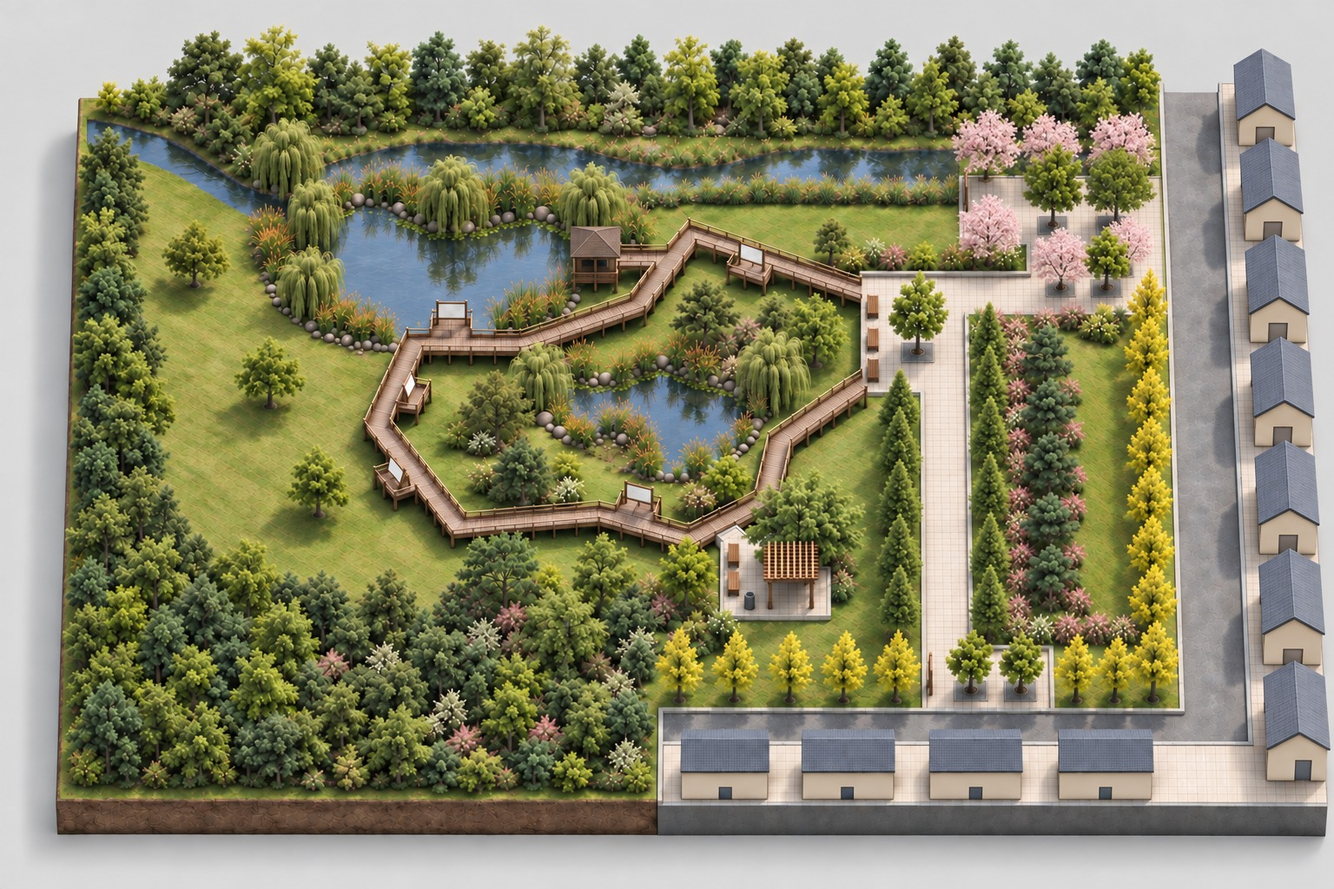
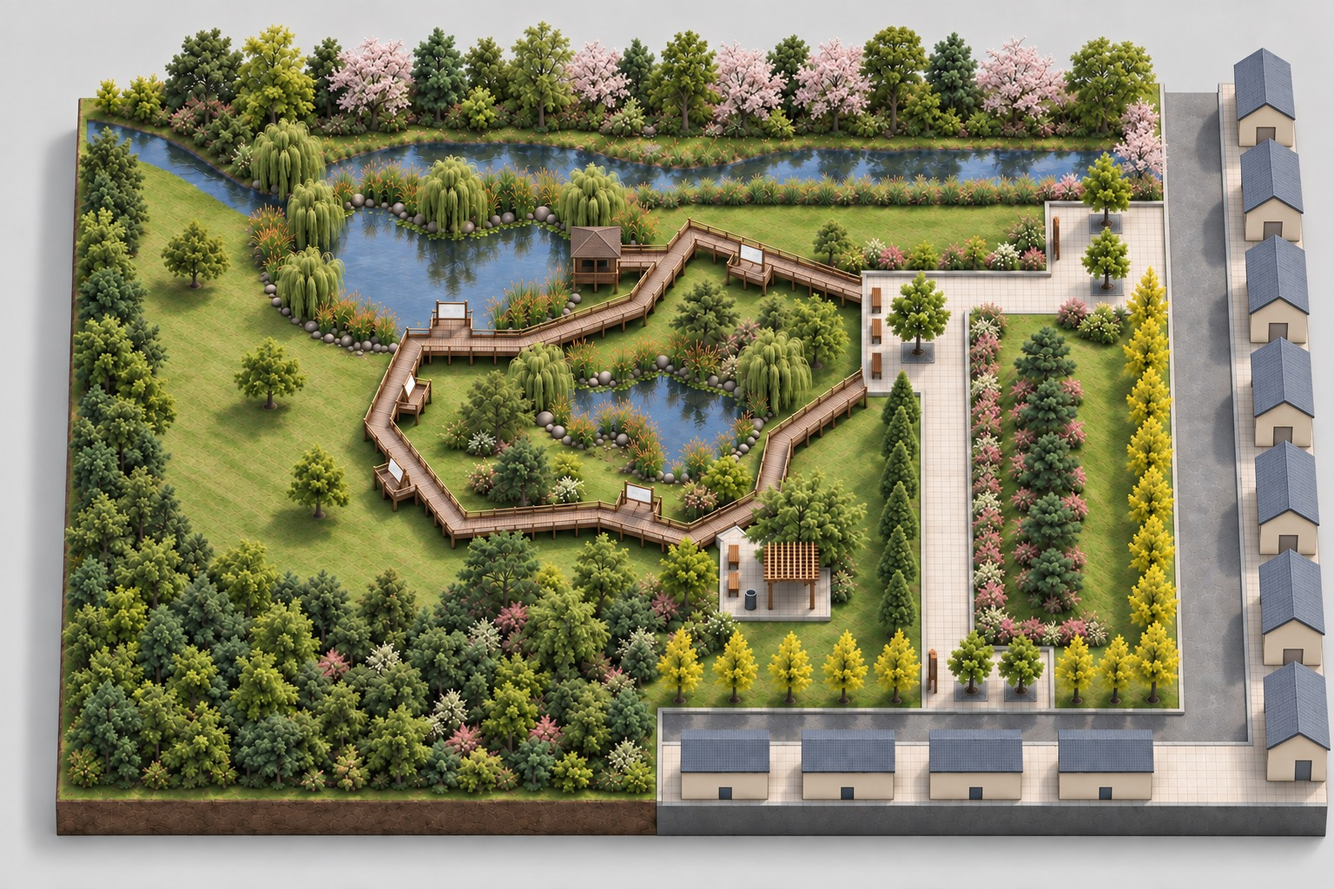
401: 입체평면도를 26회차로 되돌리고, 조감도는 메타세쿼이아 왼쪽 줄만 (20회차)
입체평면도 — 27회차는 동선 서쪽에 메타세쿼이아 줄이 하나 더 서고 선명도가
1356 → 1015 로 떨어졌다. 새로 그리지 않고 26회차 파일로 되돌렸다.
content.md 도 26회차 상태로 맞추고, 회차 기록에 되돌린 경위를 남겼다.
'남은 차이'의 "서쪽 줄 하나 더"는 빼고 "남측 광장 동쪽 메타세쿼이아가
한 그루뿐"을 되살렸다.

조감도 — 사용자 지시대로 동선 왼쪽(서쪽) 메타세쿼이아 줄만 남기고 오른쪽
줄은 지웠다. 오른쪽에는 철쭉 띠만 남고 키 큰 나무가 한 그루도 없다.
북동 진입광장은 입체평면도(26회차)를 참고 그림으로 한 장 더 넣어 그 모양과
배치를 따르게 했다 — "모양과 배치만 보고 시점·원근·질감은 지금 그림 그대로,
참고 그림은 평행투영이라 시점이 다르다"고 못박았다.

19회차에서 북동 광장 수목보호대가 셋이 되어, "북동 광장은 정확히 둘,
셋이 아니다. 셋째가 생기면 빼고 그 자리에 포장을 깔아라"로 다시 적어
20회차에 다섯 개(남측 2 · 북동 2 · 모임광장 1)로 맞췄다.

선명도 18회차 2889 → 20회차 3002(기준 2500).

diff --git a/_ls_drawing_refs/401_조감도/content.md b/_ls_drawing_refs/401_조감도/content.md
@@ -1,5 +1,5 @@
 '성운' 탭의 **답안지 II · 기본설계도**와 **답안지 III · 배식설계도**, 문제지 조건으로 만든 **입체 조감도**입니다.
-**GPT**(gpt-image-2.5-sunburst, 18회차)로 그렸습니다. 남동쪽 상공에서 북서쪽을 내려다본 시점이라 **도면의 북쪽이 그림의 위**입니다 —
+**GPT**(gpt-image-2.5-sunburst, 20회차)로 그렸습니다. 남동쪽 상공에서 북서쪽을 내려다본 시점이라 **도면의 북쪽이 그림의 위**입니다 —
 실개천이 위, 기존수림이 왼쪽, 6m 도로와 주택가가 오른쪽·아래입니다.
 
 ## 만든 방법 — 1회차 그림에서 **한 번에**
@@ -27,12 +27,13 @@
 7. 그런데 "**미색 판면이 비스듬히 보이고**"라고 적은 탓에 모델이 판면을 보이려고 **방향을 되돌려** 카메라를 마주 보게 했습니다(사용자 지적). 14회차에서 **방향이 최우선**임을 못박고 "이 시점에서는 판의 **좁은 옆면**이 보이는 것이 맞다, 판면이 안 보여도 괜찮다"고 바꿔 적었습니다. 대신 안내판임을 알리는 것으로 **다리 둘 · 판 아래 빈 틈 · 선 판의 그림자** 셋을 요구했습니다
 8. 식재가 틀렸습니다(사용자 지적) — 포장 가장자리를 따라 **키 큰 원뿔형 침엽수 줄**이 서 있었는데, 그 자리는 **철쭉 경계식재**여야 합니다. 성운 배식도의 의도는 "철쭉을 경계식재로, 둔덕에는 소나무, 상부에는 벚나무, 외곽에는 은행나무"이고 수량표에도 철쭉이 540주로 가장 많습니다. 침엽수 줄을 모두 지우고 **무릎 높이의 낮은 꽃관목 띠**로 바꿨습니다(15회차)
 9. 그 지시가 너무 넓어 **살아 있어야 할 메타세쿼이아 열식까지 지웠습니다**. 배식도의 `7 − 메타세쿼이어` 인출선을 확대해 끝까지 따라가 보니, 그 줄은 **남측 진입광장의 수목보호대 두 개 옆에서 시작해 남북 동선 포장의 동쪽 가장자리를 따라 북으로 오르는 일곱 그루**였고, 철쭉 띠는 그 **동쪽에 따로** 있었습니다. 좌표나 "오른쪽 변" 대신 **그림에 이미 있는 물건(수목보호대 두 개)** 을 기준점으로 삼고 "세어서 하나, 둘, … 일곱"까지 적으니 16~17회차에 네 번 실패하던 것이 한 번에 됐습니다. 함께 북동 광장에 **벚나무 6 · 느티나무 3**을 심고 **수목보호대 다섯 개는 하나도 없애지 마라**를 못박았습니다(18회차)
+10. 메타세쿼이아가 동선 **양옆에 한 줄씩** 서서, 사용자가 **왼쪽(서쪽) 줄만 남기고 오른쪽은 철쭉 띠만** 두라고 했습니다. 북동 진입광장은 **입체평면도(26회차)를 참고 그림으로 한 장 더 넣어** 그 모양과 배치를 따르게 했습니다 — "모양과 배치만 보고 시점·원근·질감은 지금 그림 그대로"라고 못박았습니다(19회차). 19회차는 북동 광장 수목보호대가 셋이 되어, **"북동 광장은 정확히 둘, 셋이 아니다. 셋째가 생기면 빼고 그 자리에 포장을 깔아라"** 로 다시 적어 20회차에 다섯 개로 맞췄습니다
 
 > **덧그리기는 곧 화질입니다.** 고칠 것이 생기면 마지막 그림 위에 얹지 말고, **덧그림이 적은 앞 회차로 돌아가
 > 고칠 것을 모두 한 프롬프트에 모아** 다시 그리는 편이 낫습니다. 같은 방식으로 'My' 탭 조감도와 '입체평면도'도 고쳤습니다.
 > 마스크 부분 수정이나 그림을 손으로 자르고 돌리는 일은 하지 않습니다.
 
-## 도면과 대조 (18회차)
+## 도면과 대조 (20회차)
 
 | 도면(성운 답안) | 결과 |
 | --- | --- |
@@ -50,19 +51,24 @@
 | 안내판 모양 | ✓ 안내판은 판의 긴 변이 **포장과 관목의 경계선과 나란**해서, 이 시점에서는 **좁은 옆면이 보입니다** — 판면이 안 보이는 것이 맞습니다. 안내판임은 **가는 다리 둘 · 판 아래의 빈 틈 · 바닥에 지는 선 판의 그림자**로 알아봅니다. 걸상은 앉는 면이 바닥 가까이 낮게 깔려 아래로 빛이 통하지 않으니, 둘이 뚜렷이 다릅니다. |
 | 배식 의도 | 철쭉을 **경계식재**로, 둔덕에는 **소나무**, 상부에는 **벚나무**, 외곽에는 **은행나무** 열식 (성운 배식도 · 철쭉 540주 H0.5×W0.6 으로 가장 많음) | ✓ 포장 가장자리의 키 큰 침엽수 줄을 모두 걷어내고 **무릎 높이 철쭉 띠**로 바꿨습니다 |
 | 배식 인출선 | `7 − 메타세쿼이어 H4.0 × B8` 인출선은 **남측 진입광장(수목보호대 2개) 옆에서 시작해 남북 동선 포장의 동쪽 가장자리를 따라 북으로 오르는 나무 줄**을 가리킵니다(배식도에서 원 7개). 그 동쪽에 `540 − 철쭉` 띠가 따로 있습니다 | ✓ 두 띠가 나란히 들어갔습니다 |
+| 메타세쿼이아 | 동선 **왼쪽(서쪽)** 한 줄 | ✓ 오른쪽에는 철쭉 띠만 있고 키 큰 나무가 한 그루도 없습니다 |
+| 북동 진입광장 | 수목보호대 2 · 안내판 1 · 북쪽 관목 띠 · 둘레에 벚나무 6 · 느티나무 3 | ✓ 입체평면도(26회차)의 모양을 참고 그림으로 주어 맞췄습니다 |
+| 수목보호대 | 남측 2 · 북동 2 · 모임광장 1 = **5** | ✓ |
 | 글자 없음 | ✓ |
 
-비용은 18장 약 $1.06 입니다(8~18회차만 `xhigh` 품질이라 장당 $0.074).
+비용은 20장 약 $1.21 입니다(8~20회차만 `xhigh` 품질이라 장당 $0.074).
 
-## 프롬프트 — 마지막 회차(18회차, 참고: 기본설계도 + 배식설계도 + 1회차 그림)
+## 프롬프트 — 마지막 회차(20회차, 참고: 기본설계도 + 배식설계도 + 입체평면도 26회차 + 1회차 그림)
 
-1회차 그림을 함께 주고 고칠 것을 한꺼번에 적은 것입니다. 1~17회차 프롬프트는 뺐습니다.
+1회차 그림을 함께 주고 고칠 것을 한꺼번에 적은 것입니다. 1~19회차 프롬프트는 뺐습니다.
 
     The FIRST attached image is the site and facilities plan of a small Korean ecological park (north is up in the drawing). The SECOND attached image is the planting plan of the same site. These two drawings are the ground truth for WHAT is where.
 
-    The THIRD attached image is a photorealistic bird's-eye rendering of that park. Its CAMERA, its PERSPECTIVE, its FRAMING, its DAYLIGHT, its MATERIALS, its TEXTURES and its SHARPNESS are all EXACTLY RIGHT, and so is the overall layout. Copy all of that.
+    The THIRD attached image is a flat AXONOMETRIC (parallel-projection) model of the same park. Use it ONLY for the SHAPE and ARRANGEMENT of the NORTH-EASTERN ENTRANCE PLAZA, as described below. Take nothing else from it.
 
-    Redraw the third image, fresh and sharp, changing ONLY the thirteen things listed below so that it matches the two drawings. Nothing else changes.
+    The FOURTH attached image is a photorealistic bird's-eye rendering of that park. Its CAMERA, its PERSPECTIVE, its FRAMING, its DAYLIGHT, its MATERIALS, its TEXTURES and its SHARPNESS are all EXACTLY RIGHT, and so is the overall layout. Copy all of that.
+
+    Redraw the FOURTH image, fresh and sharp, changing ONLY the thirteen things listed below so that it matches the two drawings. Nothing else changes.
 
     1. SOUTH ROAD — EAST HALF ONLY. The 6 m residential road along the bottom edge must run ONLY along the EASTERN HALF of that edge, from the south entrance plaza east to the corner. Along the WESTERN HALF there is NO road at all: the park's forest runs straight on into the wooded hill beyond. Delete the western part of the road and its kerbs and fill that ground with woodland.
 
@@ -105,23 +111,29 @@
 
     DO NOT TOUCH THE BOARDS ON THE BOARDWALK. The 5 small boards on the 5 timber viewing platforms and the 1 board beside the bird-watching hut are ALREADY RIGHT - each stands upright and runs along its own deck rail. Leave their shape, direction, position and size exactly as they are.
 
-    13. PLANTING - FOUR THINGS, EACH IN ITS OWN PLACE. Read them one at a time; they sit side by side and are NOT the same.
+    13. PLANTING AND THE NORTH-EAST PLAZA - FIVE THINGS, EACH IN ITS OWN PLACE.
 
-    (a) KEEP THE PINK AZALEA BAND. The long grassy mound is edged on its western side by a dense band of LOW FLOWERING SHRUBS - azaleas, knee high, reading from above as a LOW FLAT RIBBON OF PINK AND WHITE BLOSSOM. Keep it exactly as it is. Plant no tall tree inside that ribbon.
+    (a) THE TALL CONIFERS STAND ONLY ON THE LEFT OF THE PATH. Along the LEFT-HAND (western) side of the long straight block-paved path there is a row of TALL DECIDUOUS CONIFERS - straight trunks, narrow conical crowns, soft feathery foliage, standing apart with grass between them. KEEP that row exactly as it is.
 
-    (b) A ROW OF SEVEN TALL METASEQUOIAS BETWEEN THE PAVING AND THAT PINK BAND. Find the SOUTHERN entrance plaza - the block-paved area at the bottom that opens onto the bottom road and holds TWO SQUARE TREE GRATES side by side. Starting from beside those two grates, follow the edge of the block paving NORTHWARD, up the long straight path. In the narrow strip of grass between that paving edge and the pink azalea band, plant a row of TALL METASEQUOIAS. Count them one by one as you plant: one, two, three, four, five, six, seven - SEVEN trees. Each is a tall DECIDUOUS CONIFER with a straight trunk, a narrow conical crown and soft feathery foliage. They stand APART, about one crown's width between neighbours, so grass shows between them. They are NOT a dense evergreen hedge and must NOT touch shoulder to shoulder. This row of tall trees belongs here - do not replace it with shrubs.
+    (b) DELETE THE CONIFERS ON THE RIGHT OF THE PATH. On the RIGHT-HAND (eastern) side of that same paving there is at present a second row of the same tall conifers. DELETE EVERY ONE OF THEM. In their place leave ONLY the LOW BAND OF PINK AND WHITE FLOWERING SHRUBS - azaleas, knee high, a flat ribbon of blossom against the paving - and beyond it the grassy mound. NOT ONE tall tree stands on the right-hand side of that paving: no conifer, no spire, nothing that rises above knee height except the mound's own pines further east.
 
-    (c) SIX CHERRIES AND THREE ZELKOVAS ROUND THE NORTH-EAST PLAZA. Round the north-eastern entrance plaza plant SIX CHERRY TREES - broad-crowned deciduous trees in soft pale-pink blossom. Count them: one, two, three, four, five, six. Beside them stand THREE ZELKOVAS, tall broad-crowned deciduous shade trees.
+    (c) THE NORTH-EAST ENTRANCE PLAZA FOLLOWS THE THIRD IMAGE. Give the north-eastern entrance plaza the same SHAPE and the same ARRANGEMENT as it has in the THIRD attached image: the outline of its paving and where it meets the road, its TWO square tree grates - exactly two, never three - each holding one tree, ONE signboard standing on its western edge, a LOW SHRUB BAND along its northern edge, and round it SIX CHERRY TREES in pale-pink blossom and THREE ZELKOVAS. Copy the shape and the arrangement only. The third image is a flat parallel-projection drawing, so its VIEWPOINT, PERSPECTIVE, LIGHTING and TEXTURE are all different - ignore those completely and keep the ones of the FOURTH image.
 
-    (d) THE FIVE TREE GRATES ALL STAY. There are FIVE square tree grates in the park, each holding one tree: TWO on the southern entrance plaza, TWO on the north-eastern entrance plaza, ONE on the gathering plaza. Count them: one, two, three, four, five. DO NOT REMOVE ANY OF THEM. Keep the seven pines on the mound, and keep the single row of yellow ginkgos along the outer boundary beside the roads.
+    (d) FIVE TREE GRATES IN THE WHOLE PARK - NO MORE AND NO FEWER. A tree grate is a square metal grille set flush into the paving with one tree growing through it. There are FIVE of them in the whole park and they sit like this:
+      - on the NORTH-EASTERN entrance plaza: EXACTLY TWO. Count them: one, two. NOT three. If a third one appears on that plaza, take it out and lay plain paving there instead.
+      - on the SOUTHERN entrance plaza: EXACTLY TWO, side by side. Count them: one, two.
+      - on the GATHERING PLAZA: EXACTLY ONE.
+    Two plus two plus one is FIVE. Do not remove any of these five, and do not add a sixth anywhere.
+
+    (e) THE REST OF THE PLANTING STAYS: the seven spreading pines on the grassy mound, and the single row of yellow ginkgos along the outer boundary beside the roads.
 
     WHAT MUST NOT CHANGE:
     - The same camera and the same true perspective: an oblique aerial view from the SOUTH-EAST looking north-west, tilted about 45 degrees, with the stream at the top of the picture. The same framing and crop, the same late-spring daylight and soft shadows, the same colour balance.
-    - The EAST ROAD keeps exactly the angle it has in the third image. Do NOT rotate it, do NOT make it parallel to the north-south path, do NOT straighten it.
+    - The EAST ROAD keeps exactly the angle it has in the fourth image. Do NOT rotate it, do NOT make it parallel to the north-south path, do NOT straighten it.
     - The rectangular site and its surroundings: the rocky stream along the whole north edge with a wooded hill beyond; dense existing woodland filling the west side and the south-west; the 6 m road with low-rise houses along the east edge.
     - The reservoir pond in the north-west with its rocky, reedy shoreline and its willows; the timber bird-watching hide on its south-east shore; the marsh with its kidney-shaped pool, cattails, rushes and reeds and its soft planted bank; the angular timber boardwalk loop on posts with low rails.
     - The multi-layered forest in the south-west with its winding earth trail; the block-paved gathering plaza and the two entrance plazas; the straight north-south block-paved path; the single row of yellow-green ginkgos along the east road; the willows, dogwoods, spiraea and wild roses at the water's edge.
 
-    RENDER IT FRESH AT MAXIMUM RESOLUTION AND MAXIMUM DETAIL — this matters as much as the thirteen fixes. Draw the whole picture again; do not retouch, soften or resample the third image. Every part must be at least as crisp and as finely detailed as the third image: the individual leaves in every canopy, the blades of the turf, the grain and board joints of the boardwalk, the individual blocks of the paving, the rocks at the water's edge, the roof tiles of the houses. Do not simplify, smooth or average any texture.
+    RENDER IT FRESH AT MAXIMUM RESOLUTION AND MAXIMUM DETAIL — this matters as much as the thirteen fixes. Draw the whole picture again; do not retouch, soften or resample the fourth image. Every part must be at least as crisp and as finely detailed as the fourth image: the individual leaves in every canopy, the blades of the turf, the grain and board joints of the boardwalk, the individual blocks of the paving, the rocks at the water's edge, the roof tiles of the houses. Do not simplify, smooth or average any texture.
 
     STRICT RULES: no new buildings, plazas, paths, bridges, fences, walls, cars or people; NO text, letters, numbers, labels, legends, arrows, north arrow, scale bar, grid lines, dimension lines or watermark anywhere in the picture. The ONLY exception is the very faint, blurred, unreadable grey markings on the signboard panels described above - they must stay illegible.

diff --git a/_ls_drawing_refs/401_입체평면도/content.md b/_ls_drawing_refs/401_입체평면도/content.md
@@ -1,5 +1,5 @@
 'My' 탭의 색 배치도와 '성운' 탭의 **기본설계도 · 배식설계도**를 GPT 이미지 모델
-(gpt-image-2.5-sunburst)에 주고 만든 **입체평면도**입니다(27회차).
+(gpt-image-2.5-sunburst)에 주고 만든 **입체평면도**입니다(26회차).
 
 '조감도' 탭과 달리 **원근이 없는 평행투영(축측투영)** 입니다. 멀리 있는 것도 가까이 있는 것과
 같은 크기로 그려지므로 **평면도와 그대로 견주어 볼 수 있습니다** — 주택 여덟 채가 모두 같은
@@ -81,7 +81,9 @@
 23. "판면이 비스듬히 보이고"라고 적은 탓에 모델이 **방향을 되돌려** 카메라를 마주 보게 했습니다. **방향이 최우선**임을 못박고 "좁은 옆면이 보이는 것이 맞다"로 바꾸었습니다(23회차). 선명도 1115
 24. 포장 가장자리의 **키 큰 침엽수 줄**을 모두 걷어내고 **철쭉 경계식재**(무릎 높이 꽃관목 띠)로 바꿨습니다 — 성운 배식도의 의도가 "철쭉을 경계식재로, 둔덕에는 소나무, 상부에는 벚나무, 외곽에는 은행나무"이기 때문입니다(24회차). 선명도 1308
 25·26. 24회차의 "포장 가장자리 침엽수를 **모두** 지워라"가 너무 넓어, 살아 있어야 할 것까지 지웠습니다 — 배식도의 `7 − 메타세쿼이어 H4.0 × B8` 열식과 북동 광장 둘레의 `6 − 산벚나무`·`3 − 느티나무`입니다. 범위를 **마운딩 서쪽 동선 가장자리**로 좁혀 다시 적고 벚나무·느티나무를 더했습니다(26회차). 선명도 1356
-27. 메타세쿼이아 일곱 그루는 "오른쪽 변을 따라"로는 네 번 연속 실패했습니다. 배식도 인출선을 끝까지 따라가 자리를 확정한 뒤 **그림에 이미 있는 물건(남측 광장의 수목보호대 두 개)** 을 기준점으로 삼고 "세어서 하나, 둘, … 일곱"까지 적으니 한 번에 됐습니다(27회차). 선명도 1015
+27. 메타세쿼이아 일곱 그루를 **그림에 이미 있는 물건(남측 광장의 수목보호대 두 개)** 을 기준점으로 삼아
+    넣어 보았습니다(27회차). 일곱 그루는 제자리에 섰지만 **동선 서쪽에도 같은 줄이 하나 더** 서고
+    선명도가 1356 → 1015 로 떨어져, **26회차로 되돌렸습니다.** 이 그림에는 이 열식이 들어 있지 않습니다
 
 > 회차마다 색 배치도와 배식설계도를 첫 두 참고 그림으로 다시 주고, 앞 회차 그림을 셋째로 줍니다.
 > 마스크 부분 수정이나 그림을 손으로 자르고 돌리는 일은 하지 않습니다.
@@ -104,7 +106,7 @@
 10회차 1351·1349·1361px, 16회차 1353·1356·1361px 로 같고, 모형 왼쪽 변 기울기도
 10회차 −18px, 16회차 −16px(730px 기준)로 같습니다.
 
-## 도면과 대조 (27회차)
+## 도면과 대조 (26회차)
 
 | 항목 | 도면 | 그림 |
 | --- | --- | --- |
@@ -125,16 +127,16 @@
 | 안내판 판면 | — | ✓ 아주 연한 미색에 **읽히지 않는 흐린 무늬** — 옆 포장과 비슷한 밝기 |
 | 안내판 방향·수 | — | ✓ 진입광장 안내판은 **포장·관목 경계선과 나란히**, 광장마다 **1개씩**. 관찰데크 5 · 조류관찰소 1 은 그대로 |
 | 안내판 모양 | — | ✓ 안내판은 판의 긴 변이 **포장과 관목의 경계선과 나란**해서, 이 시점에서는 **좁은 옆면이 보입니다** — 판면이 안 보이는 것이 맞습니다. 안내판임은 **가는 다리 둘 · 판 아래의 빈 틈 · 바닥에 지는 선 판의 그림자**로 알아봅니다. 걸상은 앉는 면이 바닥 가까이 낮게 깔려 아래로 빛이 통하지 않으니, 둘이 뚜렷이 다릅니다. |
-| 배식 의도(27회차) | 철쭉을 **경계식재**로, 둔덕에는 **소나무**, 상부에는 **벚나무**, 외곽에는 **은행나무** 열식 (성운 배식도 · 철쭉 540주 H0.5×W0.6 으로 가장 많음) | ✓ 포장 가장자리의 키 큰 침엽수 줄을 모두 걷어내고 **무릎 높이 철쭉 띠**로 바꿨습니다 |
+| 배식 의도(26회차) | 철쭉을 **경계식재**로, 둔덕에는 **소나무**, 상부에는 **벚나무**, 외곽에는 **은행나무** 열식 (성운 배식도 · 철쭉 540주 H0.5×W0.6 으로 가장 많음) | ✓ 포장 가장자리의 키 큰 침엽수 줄을 모두 걷어내고 **무릎 높이 철쭉 띠**로 바꿨습니다 |
 | 글자 | 없음 | ✓ |
 
-남은 차이는 셋입니다. ⓪ 동선 **서쪽에도 메타세쿼이아 줄이 하나 더** 섰습니다 — 도면에는 동쪽 한 줄뿐입니다. ① **저수지가 도면보다 조금 동쪽·넓습니다**(도면 부지 폭의 14~44%, 그림 약 19~50%). ② **남측 도로가 55% 지점에서 시작**합니다(도면 50%).
+남은 차이는 셋입니다. ⓪ **남측 진입광장 동쪽의 메타세쿼이아 열식(배식도 7주)이 한 그루뿐**입니다. ① **저수지가 도면보다 조금 동쪽·넓습니다**(도면 부지 폭의 14~44%, 그림 약 19~50%). ② **남측 도로가 55% 지점에서 시작**합니다(도면 50%).
 
-비용은 27장 약 $1.50 입니다(16~27회차만 `xhigh` 품질이라 장당 $0.074).
+비용은 27장 약 $1.50 입니다(16~27회차만 `xhigh` 품질이라 장당 $0.074. 27회차는 되돌렸습니다).
 
-## 프롬프트 — 마지막 회차(27회차, 참고: 색 배치도 + 배식설계도 + 13회차 그림)
+## 프롬프트 — 마지막 회차(26회차, 참고: 색 배치도 + 배식설계도 + 13회차 그림)
 
-13회차 그림을 함께 주고 고칠 넷만 적은 것입니다. 1~26회차 프롬프트는 뺐습니다.
+13회차 그림을 함께 주고 고칠 넷만 적은 것입니다. 1~25회차 프롬프트는 뺐습니다.
 
     The FIRST attached image is the colour-coded site plan of a small Korean ecological park. The SECOND is its hand-drawn planting plan. The THIRD attached image is a PHOTOREALISTIC axonometric render of the same park. Its LAYOUT, its CAMERA, its PARALLEL PROJECTION, its MATERIALS, its TEXTURES, its LIGHTING and every one of its objects are CORRECT and must be reproduced exactly. It stays photorealistic.
 
@@ -177,15 +179,17 @@
 
     DO NOT TOUCH THE BOARDS ON THE BOARDWALK. The 5 small boards on the 5 timber viewing platforms and the 1 board beside the bird-watching hut are ALREADY RIGHT - each stands upright and runs along its own deck rail. Leave their shape, direction, position and size exactly as they are.
 
-    FIX 5 — PLANTING - FOUR THINGS, EACH IN ITS OWN PLACE. Read them one at a time; they sit side by side and are NOT the same.
+    FIX 5 — BESIDE THE MOUND, KEEP THE AZALEAS. Along the edge of the straight block-paved path where it runs beside the long grassy mound, and along the mound's own edges, the planting is a dense BAND OF LOW FLOWERING SHRUBS - AZALEAS, knee high, reading from above as a LOW FLAT RIBBON COVERED IN PINK AND WHITE BLOSSOM. No tall conical conifer stands along THAT stretch of path. This is already correct - reproduce it exactly.
 
-    (a) KEEP THE PINK AZALEA BAND. The long grassy mound is edged on its western side by a dense band of LOW FLOWERING SHRUBS - azaleas, knee high, reading from above as a LOW FLAT RIBBON OF PINK AND WHITE BLOSSOM. Keep it exactly as it is. Plant no tall tree inside that ribbon.
+    FIX 5 — ALONG THE EASTERN EDGE OF THE SOUTHERN ENTRANCE PLAZA: SEVEN METASEQUOIAS.
+    The southern entrance plaza is the block-paved rectangle at the bottom that opens onto the bottom road. Along its RIGHT-HAND (eastern) edge, in the planted strip between the plaza paving and the ginkgo row by the road, plant a single row of SEVEN METASEQUOIAS running from the top of that edge to the bottom. Count them: one, two, three, four, five, six, seven. Each is a TALL DECIDUOUS CONIFER with a straight trunk, a narrow conical crown and soft feathery foliage, and each stands WELL APART from its neighbours so that grass shows between them. They are NOT a dense evergreen hedge and must NOT stand shoulder to shoulder. Do not replace them with shrubs - this row of tall trees belongs here.
 
-    (b) A ROW OF SEVEN TALL METASEQUOIAS BETWEEN THE PAVING AND THAT PINK BAND. Find the SOUTHERN entrance plaza - the block-paved area at the bottom that opens onto the bottom road and holds TWO SQUARE TREE GRATES side by side. Starting from beside those two grates, follow the edge of the block paving NORTHWARD, up the long straight path. In the narrow strip of grass between that paving edge and the pink azalea band, plant a row of TALL METASEQUOIAS. Count them one by one as you plant: one, two, three, four, five, six, seven - SEVEN trees. Each is a tall DECIDUOUS CONIFER with a straight trunk, a narrow conical crown and soft feathery foliage. They stand APART, about one crown's width between neighbours, so grass shows between them. They are NOT a dense evergreen hedge and must NOT touch shoulder to shoulder. This row of tall trees belongs here - do not replace it with shrubs.
+    THE SOUTHERN PLAZA KEEPS EVERYTHING ELSE IT HAS: EXACTLY 2 square tree grates set into its paving, each holding one shade tree - do not remove them - and EXACTLY 1 signboard on its western edge.
 
-    (c) SIX CHERRIES AND THREE ZELKOVAS ROUND THE NORTH-EAST PLAZA. Round the north-eastern entrance plaza plant SIX CHERRY TREES - broad-crowned deciduous trees in soft pale-pink blossom. Count them: one, two, three, four, five, six. Beside them stand THREE ZELKOVAS, tall broad-crowned deciduous shade trees.
+    FIX 5 — ROUND THE NORTH-EASTERN ENTRANCE PLAZA: SIX CHERRIES AND THREE ZELKOVAS.
+    Round the north-eastern entrance plaza plant SIX CHERRY TREES - broad-crowned deciduous trees in soft pale-pink blossom. Count them: one, two, three, four, five, six. Beside them stand THREE ZELKOVAS, tall broad-crowned deciduous shade trees. The plaza keeps EXACTLY 2 square tree grates, each holding one tree, EXACTLY 1 signboard, and the low shrub band along its northern edge.
 
-    (d) THE FIVE TREE GRATES ALL STAY. There are FIVE square tree grates in the park, each holding one tree: TWO on the southern entrance plaza, TWO on the north-eastern entrance plaza, ONE on the gathering plaza. Count them: one, two, three, four, five. DO NOT REMOVE ANY OF THEM. Keep the seven pines on the mound, and keep the single row of yellow ginkgos along the outer boundary beside the roads.
+    FIX 5 — EVERY SIGNBOARD KEEPS ITS EDGE-ON DIRECTION. On each entrance plaza the signboard's LONG EDGE RUNS ALONG the line where the paving meets the shrubs, parallel to it, with its back to the shrubs, so that from this viewpoint you see the board almost EDGE-ON - its narrow side faces you and its pale panel is hidden. NEVER turn a board round to face the camera. It stands on TWO SLIM LEGS with an OPEN GAP beneath it and throws the long shadow of an upright slab.
 
     SHARPNESS — RENDER THIS FRESH AT FULL RESOLUTION AND FULL DETAIL.
     Do not retouch or resample the third image: draw the whole picture again from scratch. Every part of it must be at least as crisp and as finely detailed as the third image is — the individual leaves in every canopy, the blades and mowing stripes in the turf, the board joints and grain of the boardwalk, the joints of the block paving, the roof tiles of the houses, the pebbles at the water edge. Nothing may come out softer, blurrier, smoother or more washed out than in the third image.
